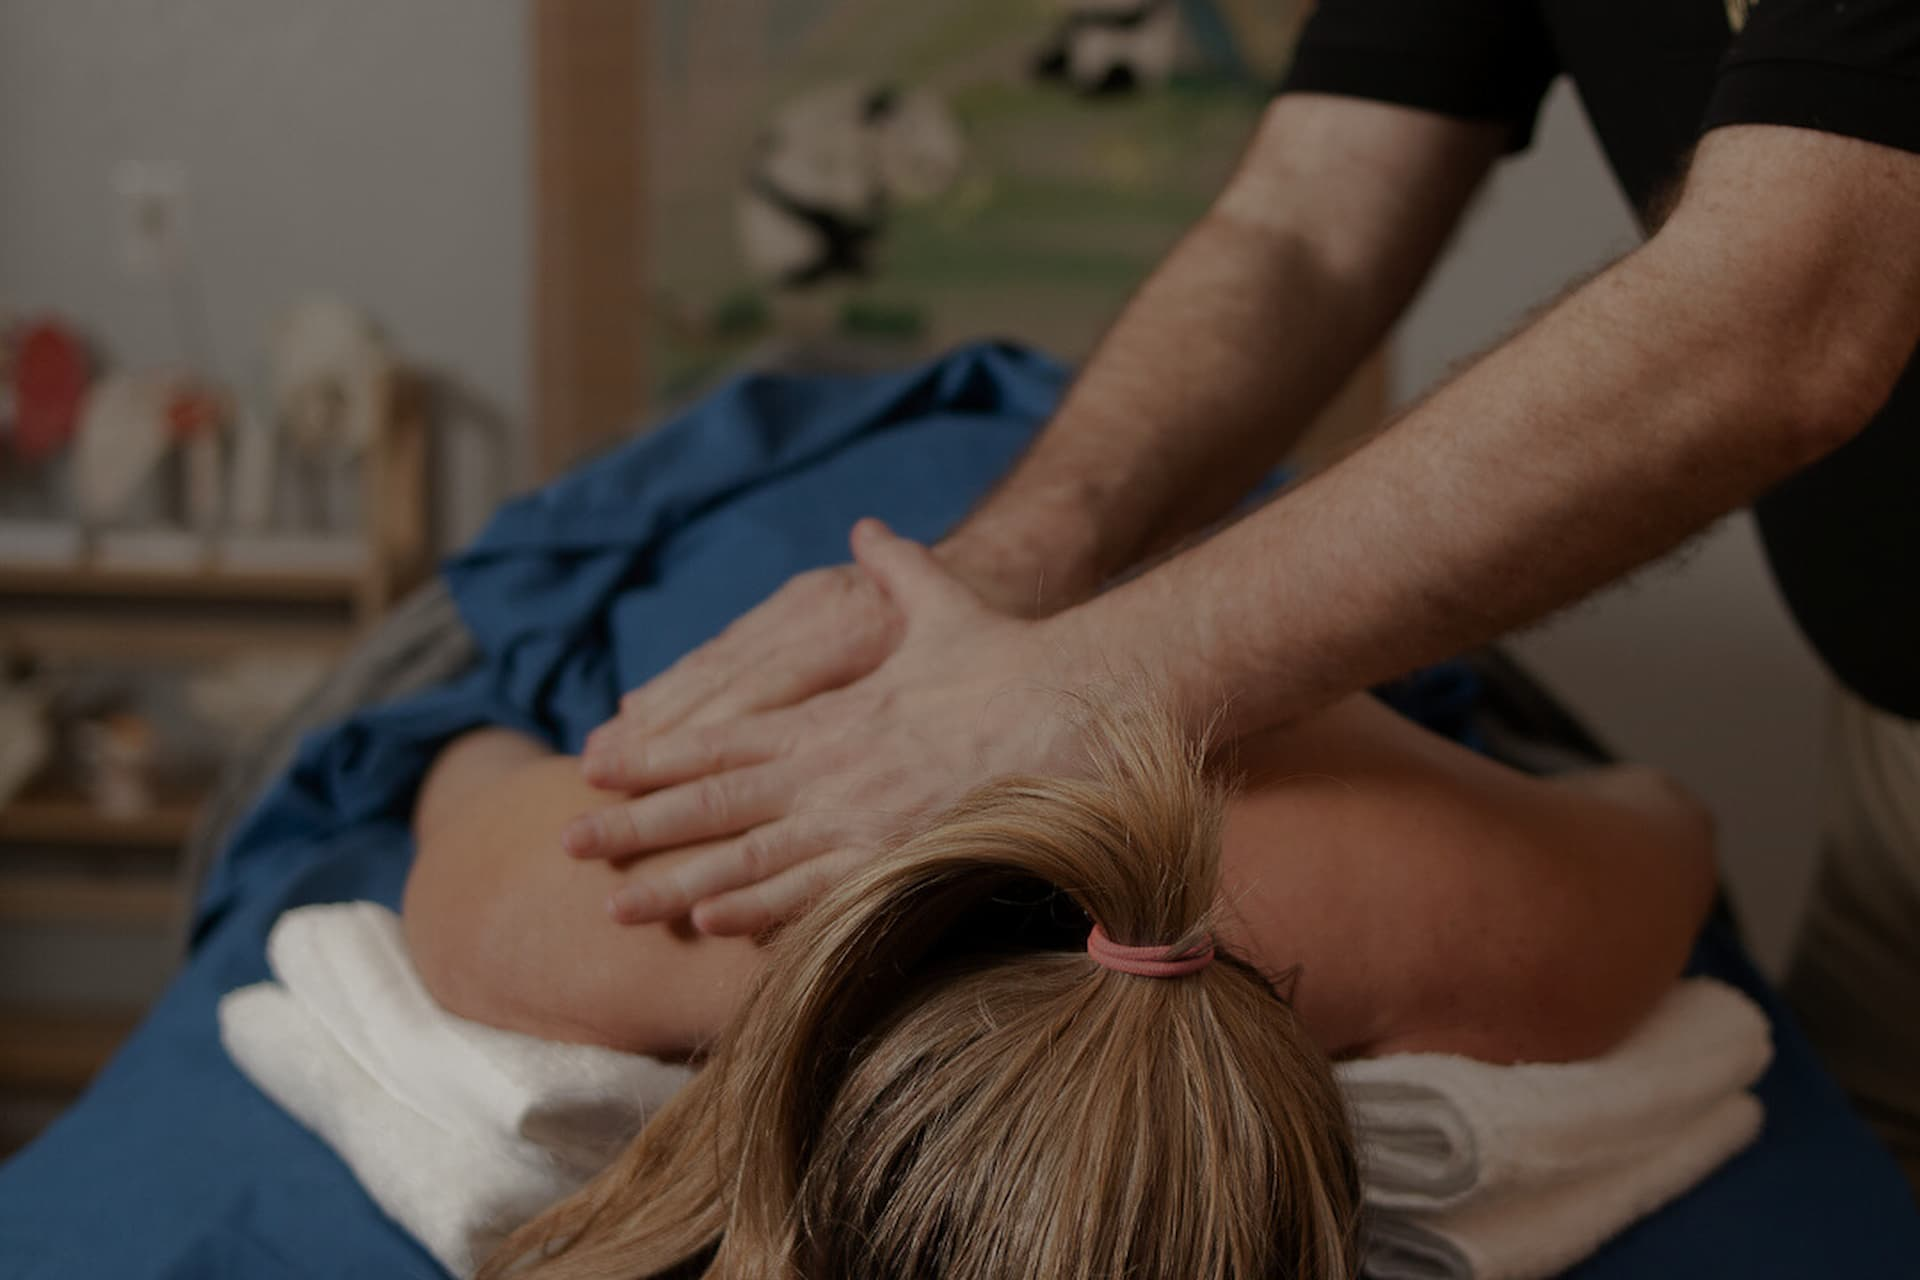
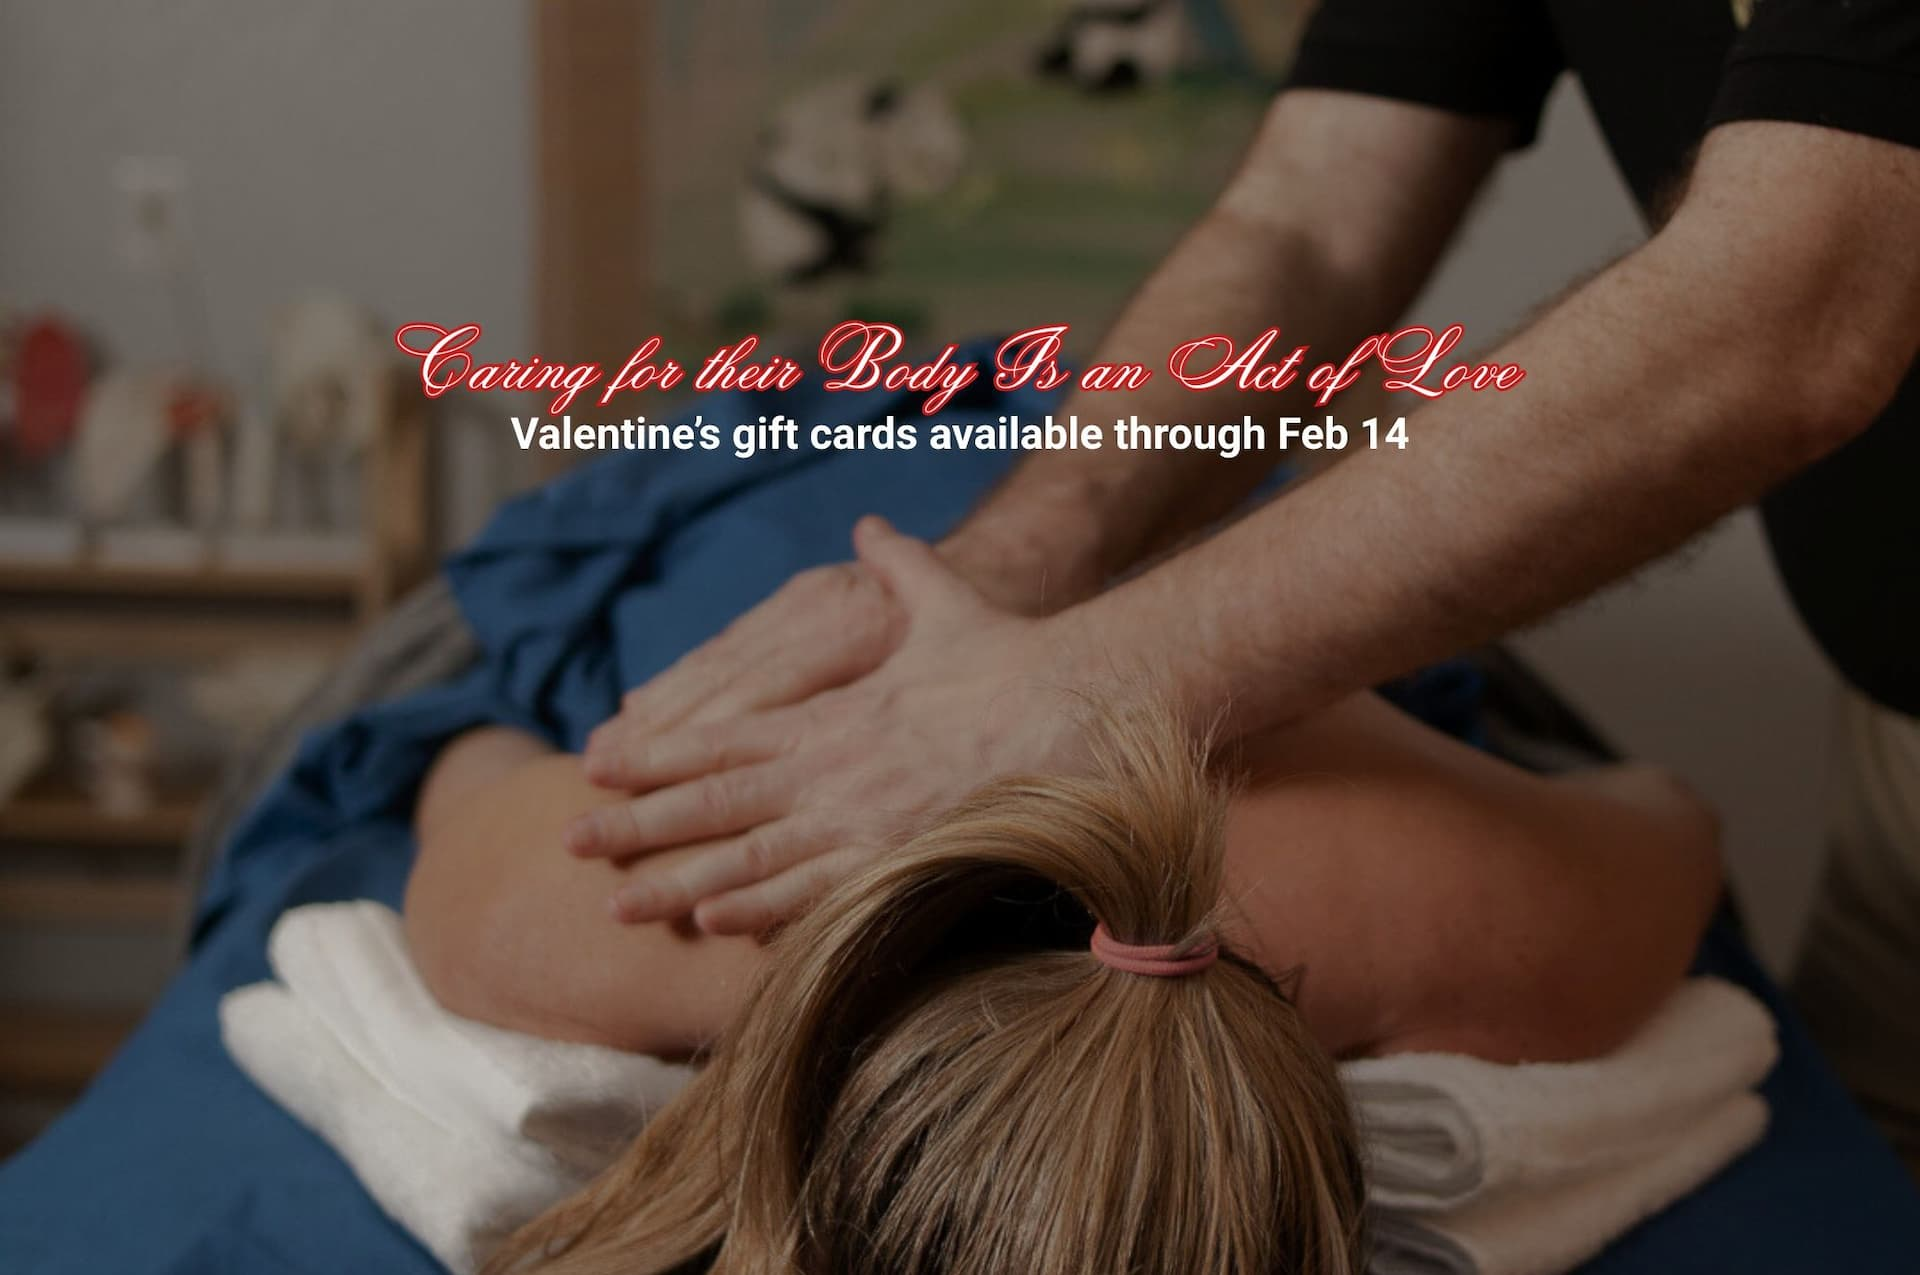
Val-Day promo
Valentine's Day gift card promo and menu update

diff --git a/index.html b/index.html
@@ -835,7 +835,11 @@
 
         #about, #services, #gallery, #reviews, #profile, #contact {
             scroll-margin-top: 100px;
-    }
+        }
+
+        #location, #hours {
+            scroll-margin-top: 150px;
+        }
         
         /* ========== RESPONSIVE ========== */
         @media (max-width: 900px) {
@@ -886,6 +890,54 @@
                 align-items: flex-start;
             }
         }
+        
+        .has-submenu .submenu {
+            display: none;
+            list-style: none;
+            padding-left: 20px;
+        }
+
+        .has-submenu.open .submenu {
+            display: block;
+        }
+
+        .has-submenu .arrow {
+            font-size: 0.7rem;
+            margin-left: 10px;
+            transition: transform 0.3s;
+            display: inline-block;
+        }
+        
+        .has-submenu.open > a .arrow {
+            transform: rotate(90deg);
+        }
+        
+        .submenu li {
+            border-bottom: none;
+        }
+        
+        .submenu li a {
+            padding: 10px 0;
+            font-size: 0.9rem;
+        }
+
+        @media (max-width: 768px) {
+            .hero h1 {
+                display: none;
+            }
+        }
+
+        .btn-valentine {
+            background: white !important;
+            border: 2px solid #8B0000 !important;
+            color: #8B0000 !important;
+        }
+
+        .btn-valentine:hover {
+            background: #8B0000 !important;
+            color: white !important;
+        }
+
     </style>
 </head>
 <link rel="stylesheet" href="https://cdnjs.cloudflare.com/ajax/libs/font-awesome/6.5.0/css/all.min.css">
@@ -919,8 +971,9 @@
         <h1><strong>Welcome to My Elite Massage</strong></h1>
         <div class="hero-buttons">
     		<a href="https://www.fresha.com/a/my-elite-massage-llc-friendswood-400-west-parkwood-avenue-i9cgwv4s/booking?menu=true&pId=490794&dppub=true&employeeId=1521604" class="btn btn-gold" target="_blank">Book Now</a>
-    		<a href="https://www.fresha.com/a/my-elite-massage-llc-friendswood-400-west-parkwood-avenue-i9cgwv4s/gift-cards?menu=true" class="btn btn-gold" target="_blank">Online Giftcards</a>
-    		<a href="https://www.fresha.com/book-now/my-elite-massage-llc-oa1wvgdo/paid-plans?share=true&pId=490794" class="btn btn-gold" target="_blank">Memberships</a>
+    		<a href="https://www.fresha.com/a/my-elite-massage-llc-friendswood-400-west-parkwood-avenue-i9cgwv4s/gift-cards?menu=true" class="btn btn-gold btn-valentine" target="_blank">Online Giftcards</a>
+            <a href="https://www.fresha.com/book-now/my-elite-massage-llc-oa1wvgdo/paid-plans?share=true&pId=490794" class="btn btn-gold" target="_blank">Memberships</a>
+            
 	</div>
     </section>
 
@@ -1110,6 +1163,7 @@
             </div>
             
             <div class="contact-info-section">
+                <div id="location"></div>
                 <h3>My Elite Massage, LLC</h3>
                 <address>
                     400 W Parkwood Ave<br>
@@ -1119,6 +1173,7 @@
 
                 <a href="https://maps.google.com/maps?q=400+W+Parkwood+Ave%2C+Friendswood%2C+TX+77546" class="btn btn-gold" target="_blank">Get Directions</a>
                 
+                <div id="hours"></div>
                 <div class="contact-hours">
                     <div class="hours-row"><span>Mon, Wed</span><span>11:00 am - 7:00 pm</span></div>
                     <div class="hours-row"><span>Tuesday</span><span>1:30 pm - 5:00 pm</span></div>
@@ -1264,6 +1319,23 @@
                 overlay.style.opacity = '0';
             }, 1000);
         }, 5250);
+    </script>
+    <script>
+        window.pageSpecificLinks = `
+            <li class="has-submenu">
+                <a href="#" class="submenu-toggle">On This Page <span class="arrow">▶</span></a>
+                <ul class="submenu">
+                    <li><a href="#about">About My Elite Massage</a></li>
+                    <li><a href="#contact">Contact Us</a></li>
+                    <li><a href="#gallery">Gallery</a></li>
+                    <li><a href="#hours">Hours</a></li>
+                    <li><a href="#location">Location</a></li>
+                    <li><a href="#profile">Profile</a></li>
+                    <li><a href="#reviews">Reviews</a></li>
+                    <li><a href="#services">Services</a></li>
+                </ul>
+            </li>
+        `;
     </script>
     <script src="nav.js"></script>
 </body>

diff --git a/nav.js b/nav.js
@@ -1,16 +1,16 @@
 document.addEventListener('DOMContentLoaded', function() {
+    // Get page-specific links if defined, otherwise empty
+    const pageLinks = window.pageSpecificLinks || '';
+    
     const navHTML = `
     <div class="mobile-nav-overlay" id="navOverlay"></div>
     <nav class="mobile-nav" id="mobileNav">
         <div class="mobile-nav-close" id="navClose">×</div>
         <ul>
             <li><a href="index.html">Home</a></li>
-            <li><a href="index.html#about">About</a></li>
-            <li><a href="https://kevins.massagetherapy.com/frequently-asked-questions" target="_blank">FAQ</a></li>
-            <li><a href="index.html#services">What We Offer</a></li>
-            <li><a href="index.html#gallery">Gallery</a></li>
-            <li><a href="index.html#reviews">Customer Reviews</a></li>
+            ${pageLinks}
             <li><a href="discounts.html">Discounts</a></li>
+            <li><a href="https://kevins.massagetherapy.com/faq" target="_blank">FAQ</a></li>
             <li><a href="https://www.fresha.com/a/my-elite-massage-llc-friendswood-400-west-parkwood-avenue-i9cgwv4s/gift-cards?menu=true" target="_blank">Online Giftcards</a></li>
             <li><a href="https://www.fresha.com/book-now/my-elite-massage-llc-oa1wvgdo/services?lid=525184&eid=1521604&pId=490794" target="_blank">Book Now</a></li>
             <li><a href="index.html#contact">Contact Us</a></li>
@@ -42,9 +42,19 @@ document.addEventListener('DOMContentLoaded', function() {
     });
     
     mobileNav.querySelectorAll('a').forEach(link => {
-        link.addEventListener('click', () => {
-            mobileNav.classList.remove('active');
-            navOverlay.classList.remove('active');
+        link.addEventListener('click', (e) => {
+            if (!link.classList.contains('submenu-toggle')) {
+                mobileNav.classList.remove('active');
+                navOverlay.classList.remove('active');
+            }
         });
     });
+
+    // Submenu toggle
+    document.querySelectorAll('.submenu-toggle').forEach(toggle => {
+        toggle.addEventListener('click', (e) => {
+            e.preventDefault();
+            toggle.parentElement.classList.toggle('open');
+        });
+    });    
 });
